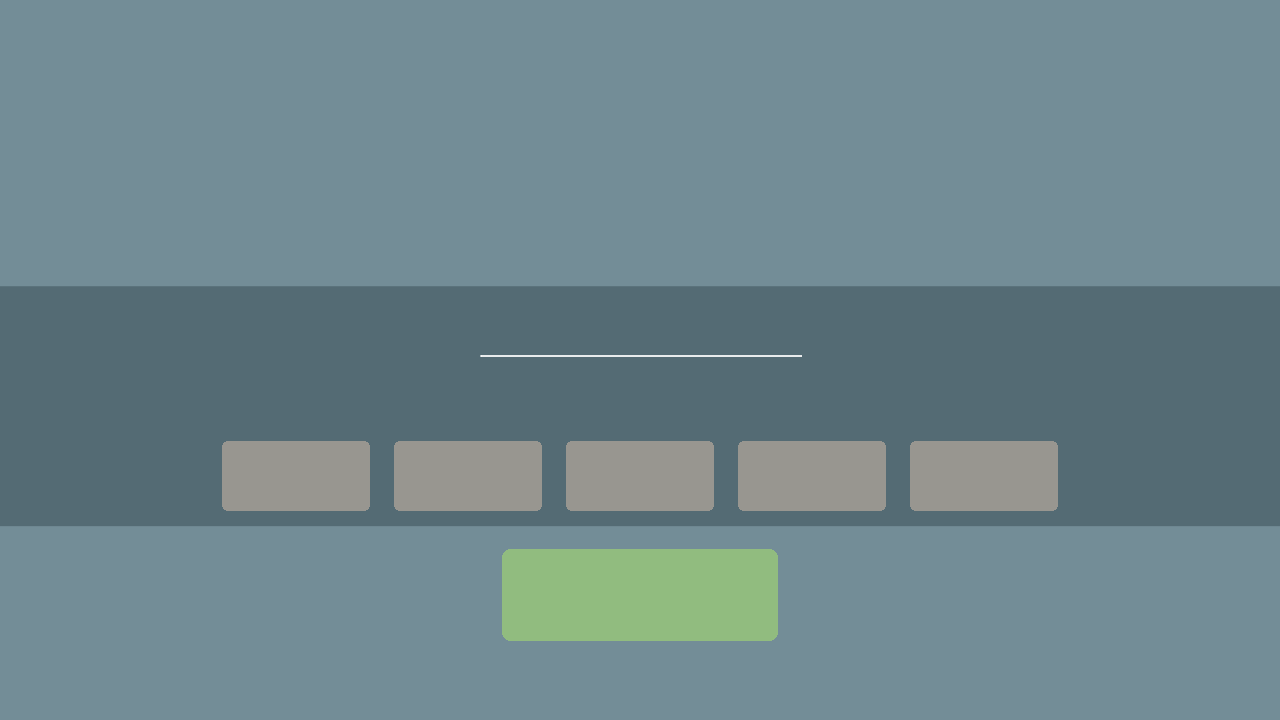
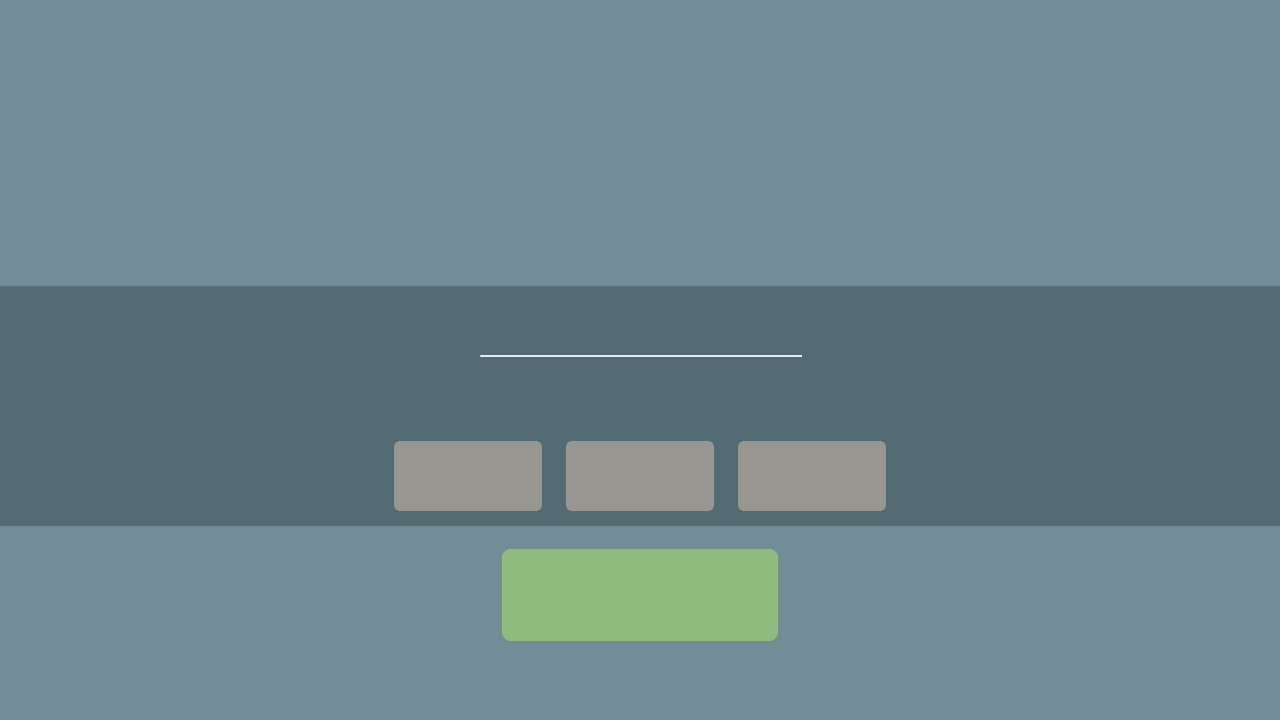
Reduced the number of difficulty levels to 3, tuned the AI a but.

Changed region(s): [[0.6875, 0.6111, 0.8438, 0.7333], [0.1562, 0.6111, 0.3125, 0.7333]]

diff --git a/src/TitleGraphics.py b/src/TitleGraphics.py
@@ -28,26 +28,20 @@ class TitleGraphics:
         self.titleLineSpacing = 120
         self.playerNameBaselineCoords = (640, 347)
         self.diffLabelBaselineCoords = (640, 424)
-        self.diff1BaselineCoords = (296, 485)
-        self.diff2BaselineCoords = (468, 485)
-        self.diff3BaselineCoords = (641, 485)
-        self.diff4BaselineCoords = (813, 485)
-        self.diff5BaselineCoords = (985, 485)
+        self.diff1BaselineCoords = (468, 485)
+        self.diff2BaselineCoords = (641, 485)
+        self.diff3BaselineCoords = (813, 485)
         self.startBaselineCoords = (640, 605)
         self.buttonsHoverCoords = {
-                "diffButton1": (222, 441),
-                "diffButton2": (394, 441),
-                "diffButton3": (567, 441),
-                "diffButton4": (739, 441),
-                "diffButton5": (911, 441),
+                "diffButton1": (394, 441),
+                "diffButton2": (567, 441),
+                "diffButton3": (739, 441),
                 "startButton": (502, 549)
                 }
         self.diffButtonsSelectedCoords = [
-                (219, 438),
                 (391, 438),
                 (564, 438),
                 (736, 438),
-                (908, 438)
                 ]
         self.startButtonHoverCoords = (502, 549)
 
@@ -70,10 +64,6 @@ class TitleGraphics:
                     self.buttonsHoverCoords["diffButton2"], (148, 70)),
                 "diffButton3": pygame.Rect(
                     self.buttonsHoverCoords["diffButton3"], (148, 70)),
-                "diffButton4": pygame.Rect(
-                    self.buttonsHoverCoords["diffButton4"], (148, 70)),
-                "diffButton5": pygame.Rect(
-                    self.buttonsHoverCoords["diffButton5"], (148, 70)),
                 "startButton": pygame.Rect(
                     self.buttonsHoverCoords["startButton"], (276, 92)),
                 }
@@ -114,14 +104,6 @@ class TitleGraphics:
                         color=self.diffTextColor),
                 "titleDifficulty3": DynamicTextElement(TITLE_DIFFICULTY3, 
                         self.diff3BaselineCoords, 
-                        alignment=FONT_ALIGN_CENTER, fontSize=22,
-                        color=self.diffTextColor),
-                "titleDifficulty4": DynamicTextElement(TITLE_DIFFICULTY4, 
-                        self.diff4BaselineCoords, 
-                        alignment=FONT_ALIGN_CENTER, fontSize=22,
-                        color=self.diffTextColor),
-                "titleDifficulty5": DynamicTextElement(TITLE_DIFFICULTY5, 
-                        self.diff5BaselineCoords, 
                         alignment=FONT_ALIGN_CENTER, fontSize=22,
                         color=self.diffTextColor),
                 "startGame": TextElement(TITLE_START, 

diff --git a/src/AI.py b/src/AI.py
@@ -311,34 +311,15 @@ def minimaxAB(board, depth, AIColor, returnPointer, maximizing=True,
 
 
 minimaxHyperParameters = [
-        {"heuristicFunc": heuristic, "depth": 2, "stubbornnessTable": None,
+        {"heuristicFunc": heuristic, "depth": 2, "stubbornnessTable": [0, 0.4, 0],
             "randomOffset": 0.1, "treeCutFactor": 1.},
         {"heuristicFunc": heuristic, "depth": 3, "stubbornnessTable": None,
             "randomOffset": 0.05, "treeCutFactor": 1.},
         {"heuristicFunc": heuristic, "depth": 4,
             "stubbornnessTable": None,
-            "randomOffset": 0.02, "treeCutFactor": 1.5},
-        {"heuristicFunc": heuristic, "depth": 5, "stubbornnessTable": None,
-            "randomOffset": 0.01, "treeCutFactor": 2.},
-        {"heuristicFunc": heuristic, "depth": 6, 
-            "stubbornnessTable": [0, 0.5, 0, 0, 0, 0, 0],
-            "randomOffset": 0.01, "treeCutFactor": 2.7}
+            "randomOffset": 0.02, "treeCutFactor": 1},
         ]
 
-"""minimaxHyperParameters = [
-        {"heuristicFunc": heuristic, "depth": 2, "stubbornnessTable": None,
-            "randomOffset": 0.08, "treeCutFactor": 1.},
-        {"heuristicFunc": heuristic, "depth": 3, "stubbornnessTable": None,
-            "randomOffset": 0.05, "treeCutFactor": 1.},
-        {"heuristicFunc": heuristic, "depth": 5,
-            "stubbornnessTable": None,
-            "randomOffset": 0.02, "treeCutFactor": 3.},
-        {"heuristicFunc": heuristic, "depth": 4, "stubbornnessTable": None,
-            "randomOffset": 0.01, "treeCutFactor": 2.},
-        {"heuristicFunc": heuristic, "depth": 5, "stubbornnessTable": None,
-            "randomOffset": 0.01, "treeCutFactor": 3.}
-        ]
-"""
 class AIPlayer:
     # The Board object the AI is playing in.
     board = None

diff --git a/src/Title.py b/src/Title.py
@@ -17,8 +17,8 @@ class Title:
        
        # The button currently being hovered
        self.hoverButton = None
-       # The difficulty level selected. From 0 to 4, starts at 2.
-       self.selectedDifficultyButton = 2
+       # The difficulty level selected. From 0 to 2, starts at 1.
+       self.selectedDifficultyButton = 1
 
     def titleLoop(self):
         pygame.key.set_repeat(400, 40)
